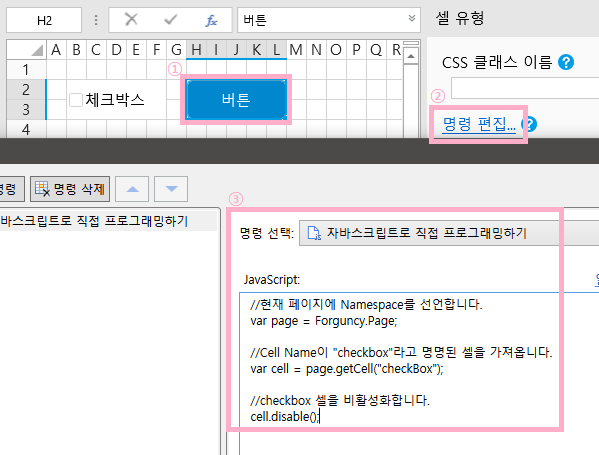
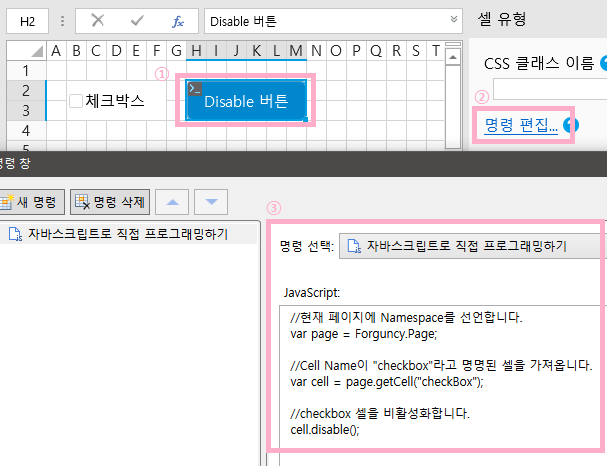
cell - diable and enable GIF로 변경
cell - diable and enable GIF로 변경

Changed region(s): [[0.0, 0.0, 1.0, 1.0]]

diff --git a/pages/forguncy5_03_javascript_api/fgc5jsapi_cell_class/fgc5jsapi_cell_class_disable.md b/pages/forguncy5_03_javascript_api/fgc5jsapi_cell_class/fgc5jsapi_cell_class_disable.md
@@ -44,6 +44,8 @@ page.disable()
 
 ### Forguncy 사용 예제
 
+※참고 : disable과 enable은 한 세트이므로 같은 예제가 구성되어 있습니다.
+
 1. 페이지를 한 개 생성하고, 체크박스 셀을 하나 생성합니다. 이후 좌측상단의 Cell Name에 checkbox라고 입력해 줍니다.
     ![]({{site.url}}/images/forguncy5/ex-ss_cell-disable01.png)
     <br /><br />
@@ -52,8 +54,14 @@ page.disable()
     ![]({{site.url}}/images/forguncy5/ex-ss_cell-disable02.png)
     <br /><br />
 
-3. 해당 프로젝트를 실행하고 체크박스를 클릭할 수 있는 지 확인합니다.<br />
-    이후 버튼을 클릭하면 체크박스가 회색으로 변경되며, 클릭이 불가능하게 변경됩니다.
+3. 또 라른 버튼을 하나 추가로 생성하여 아래와 같이 "자바스크립트로 직접 프로그래밍하기" 명령을 생성하고, 코드를 입력합니다.
     ![]({{site.url}}/images/forguncy5/ex-ss_cell-disable03.png)
+    <br /><br />
+
+4. 해당 프로젝트를 실행하고 체크박스를 클릭할 수 있는 지 확인합니다.<br />
+    Disable 버튼을 클릭하면 체크박스가 회색으로 변경되며, 클릭이 불가능하게 변경됩니다.<br />
+    Enable 버튼을 클릭하면 체크박스가 다시 클릭 가능한 상태로 변경됩니다.
+
+    ![]({{site.url}}/images/forguncy5/ex-ss_cell-disable04.gif)
 
 <br /><br />
